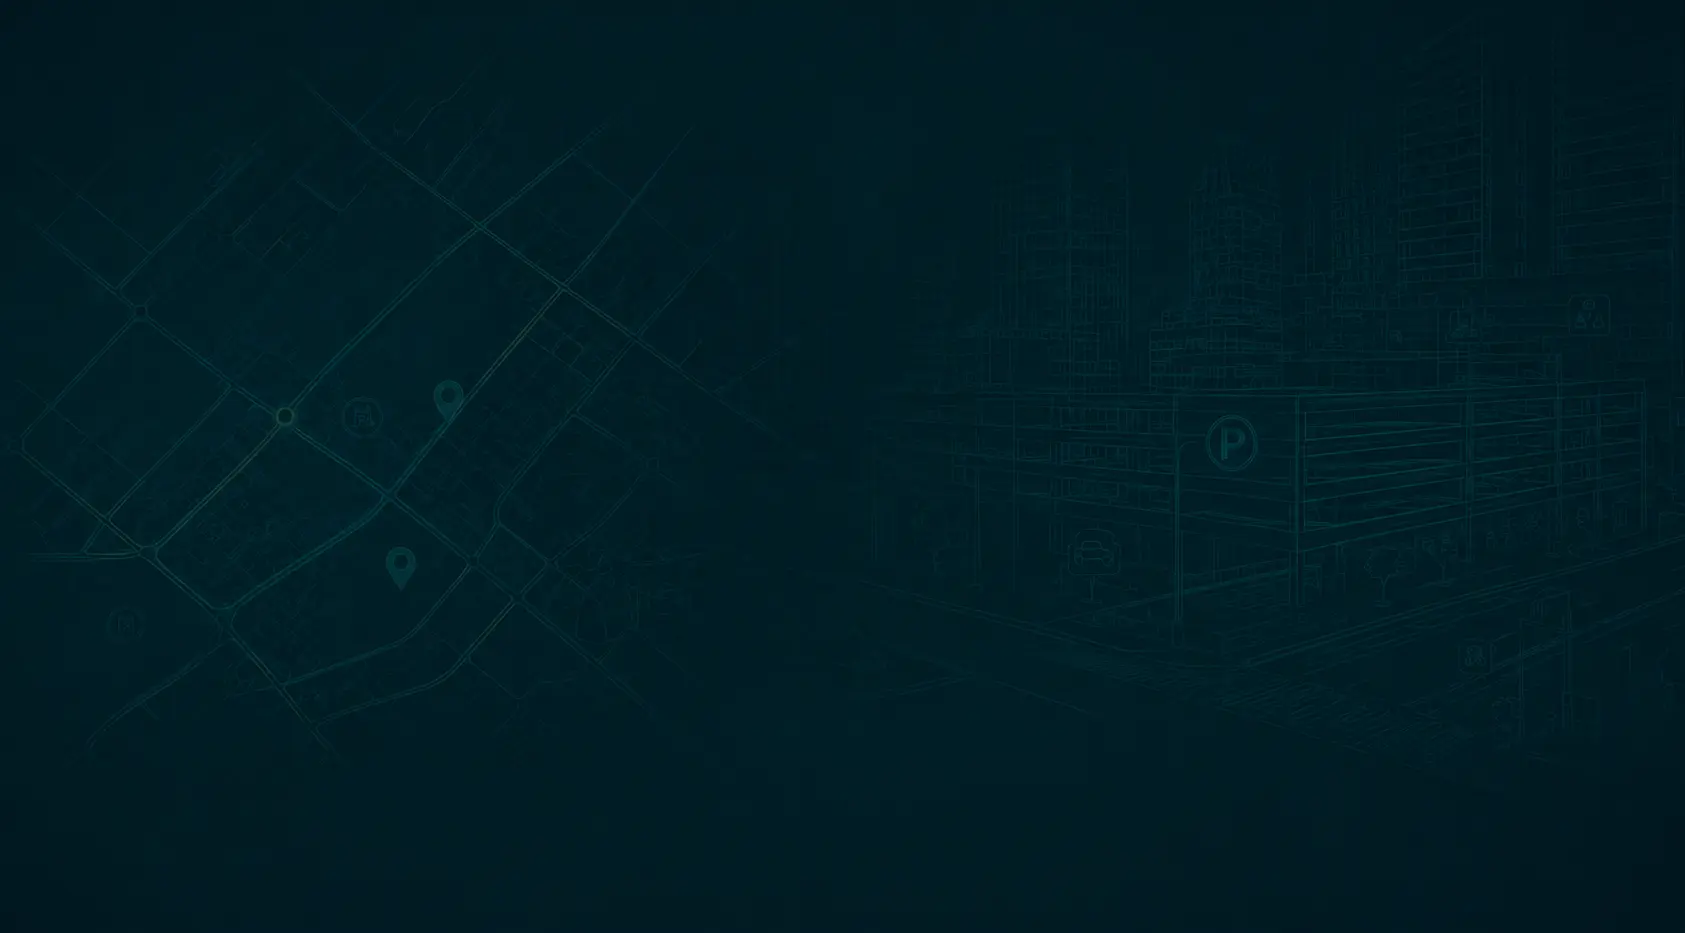
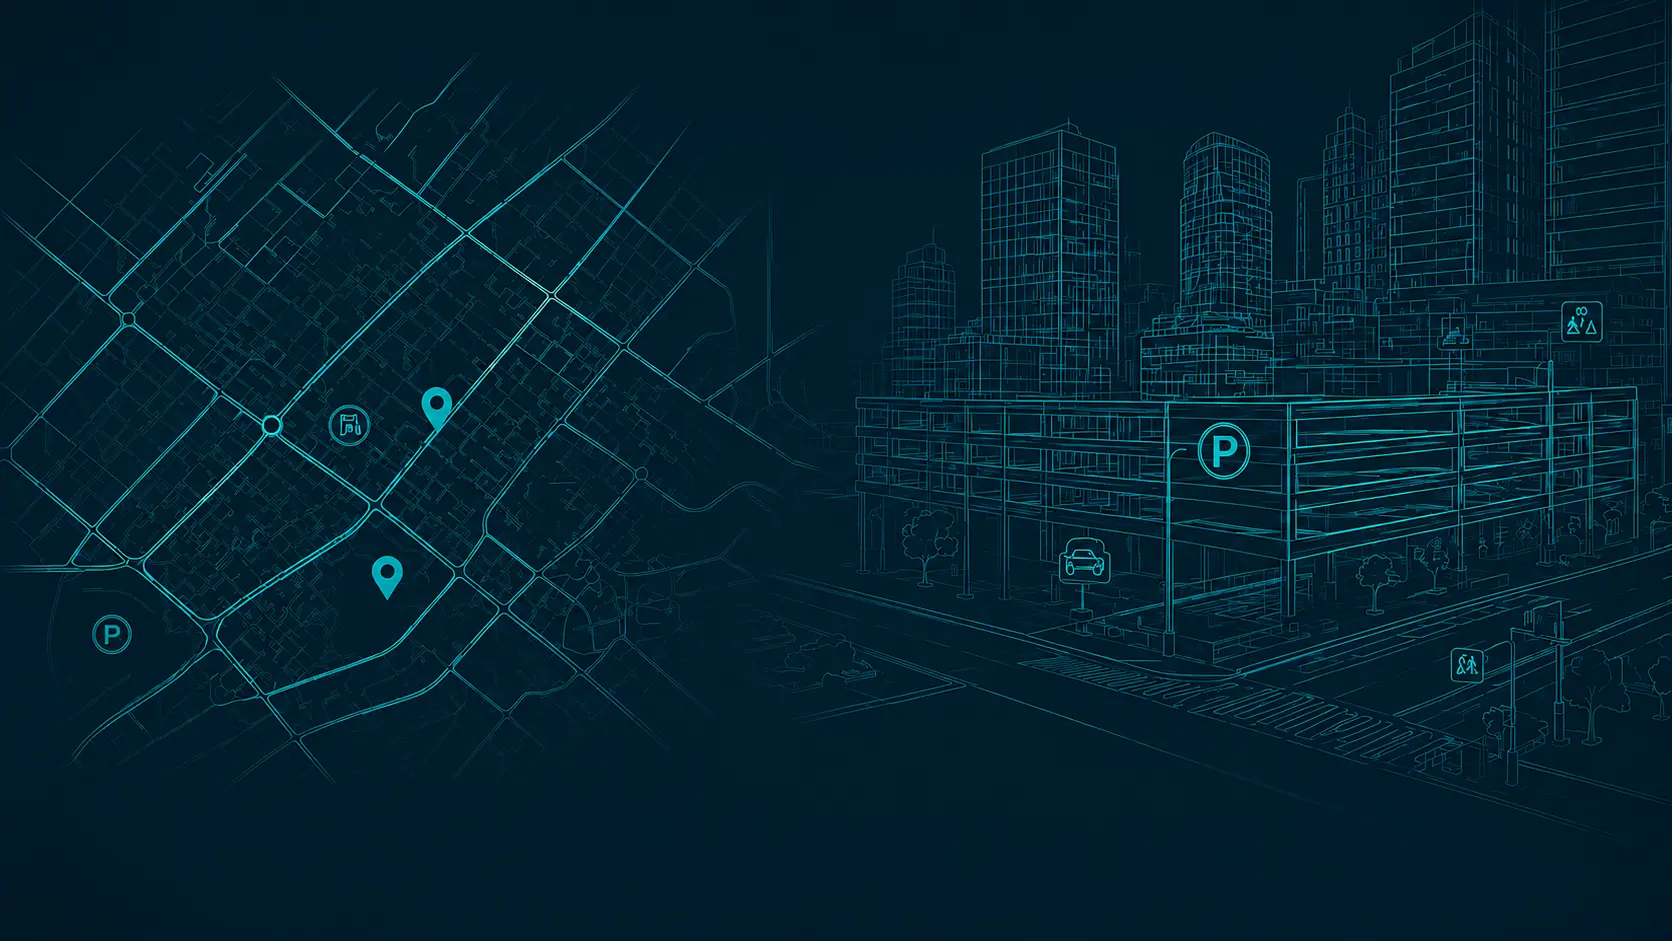
style: cambiar el fondo del apartado de servicios del inicio

diff --git a/frontend/css/estilos-servicios.css b/frontend/css/estilos-servicios.css
@@ -1,80 +1,84 @@
 .body-servicios {
-    min-height: 100dvh;
-    display: flex;
-    flex-direction: column;
+  min-height: 100dvh;
+  display: flex;
+  flex-direction: column;
 
-
-    background-image: linear-gradient(
-            rgba(19, 58, 66, 0.35),
-            rgba(19, 58, 66, 0.35)
-        ), url('../img/fondo-servicios.webp');
-    background-size: cover;
-    background-repeat: no-repeat;
+  background-image:
+    linear-gradient(rgba(11, 34, 39, 0.45), rgba(11, 34, 39, 0.45)),
+    url("../img/fondo-servicios.webp");
+  background-size: cover;
+  background-repeat: no-repeat;
 }
 
 .body-servicios main {
-    flex: 1;
+  flex: 1;
+  backdrop-filter: blur(3.5px);
 }
 
 .columns {
-    align-items: stretch;
+  align-items: stretch;
 }
 
 .seccion-servicios {
-    position: relative;
-    padding-bottom: 50px; 
+  position: relative;
+  padding-bottom: 50px;
 }
 
 .linea-divisoria-servicios {
-    width: 50%;              
-    height: 7px;
-    margin: 0 auto;           
-    background-color: var(--turquesa);
-    border-radius: 5px;
+  width: 50%;
+  height: 7px;
+  margin: 0 auto;
+  background-color: var(--turquesa);
+  border-radius: 5px;
 }
 
 .imagen-servicios {
-    background-color: rgb(0, 0, 0);
-    width: 100%;
-    height: auto;
-    border-radius: 8px;
-    box-shadow: 0 4px 8px rgba(0, 0, 0, 0.1);
-    transition: transform 0.3s ease, box-shadow 0.3s ease;
+  background-color: rgb(0, 0, 0);
+  width: 100%;
+  height: auto;
+  border-radius: 8px;
+  box-shadow: 0 4px 8px rgba(0, 0, 0, 0.1);
+  transition:
+    transform 0.3s ease,
+    box-shadow 0.3s ease;
 }
 
 .card-servicios {
-    color: var(--azul-oscuro) !important;
-    height: 100%;
+  color: var(--azul-oscuro) !important;
+  height: 100%;
 
-    padding: 5px;
-    border-radius: 8px;
+  padding: 5px;
+  border-radius: 8px;
 
-    box-shadow: 0 4px 8px rgba(0, 0, 0, 0.3);
-    transition: transform 0.3s ease, box-shadow 0.3s ease, border-color 0.3s ease;
+  box-shadow: 0 4px 8px rgba(0, 0, 0, 0.3);
+  transition:
+    transform 0.3s ease,
+    box-shadow 0.3s ease,
+    border-color 0.3s ease;
 }
 
 .titulo-tarjeta {
-    display: flex;
-    align-items: center;
-    gap: 0.75rem;
-    font-size: 1.5rem;
-    line-height: 1.2;
-    letter-spacing: 1px;
-    color: var(--azul-oscuro);
+  display: flex;
+  align-items: center;
+  gap: 0.75rem;
+  font-size: 1.5rem;
+  line-height: 1.2;
+  letter-spacing: 1px;
+  color: var(--azul-oscuro);
 }
 
 .imagenes-laterales {
-    height: 100%;
-    background-size: cover;
-    background-position: center;
-    position: sticky;
-    top: 0;
+  height: 100%;
+  background-size: cover;
+  background-position: center;
+  position: sticky;
+  top: 0;
 }
 
 .imagen-izquierda {
-    background-image: url('https://picsum.photos/120/400');
+  background-image: url("https://picsum.photos/120/400");
 }
 
 .imagen-derecha {
-    background-image: url('https://picsum.photos/120/400');
+  background-image: url("https://picsum.photos/120/400");
 }
